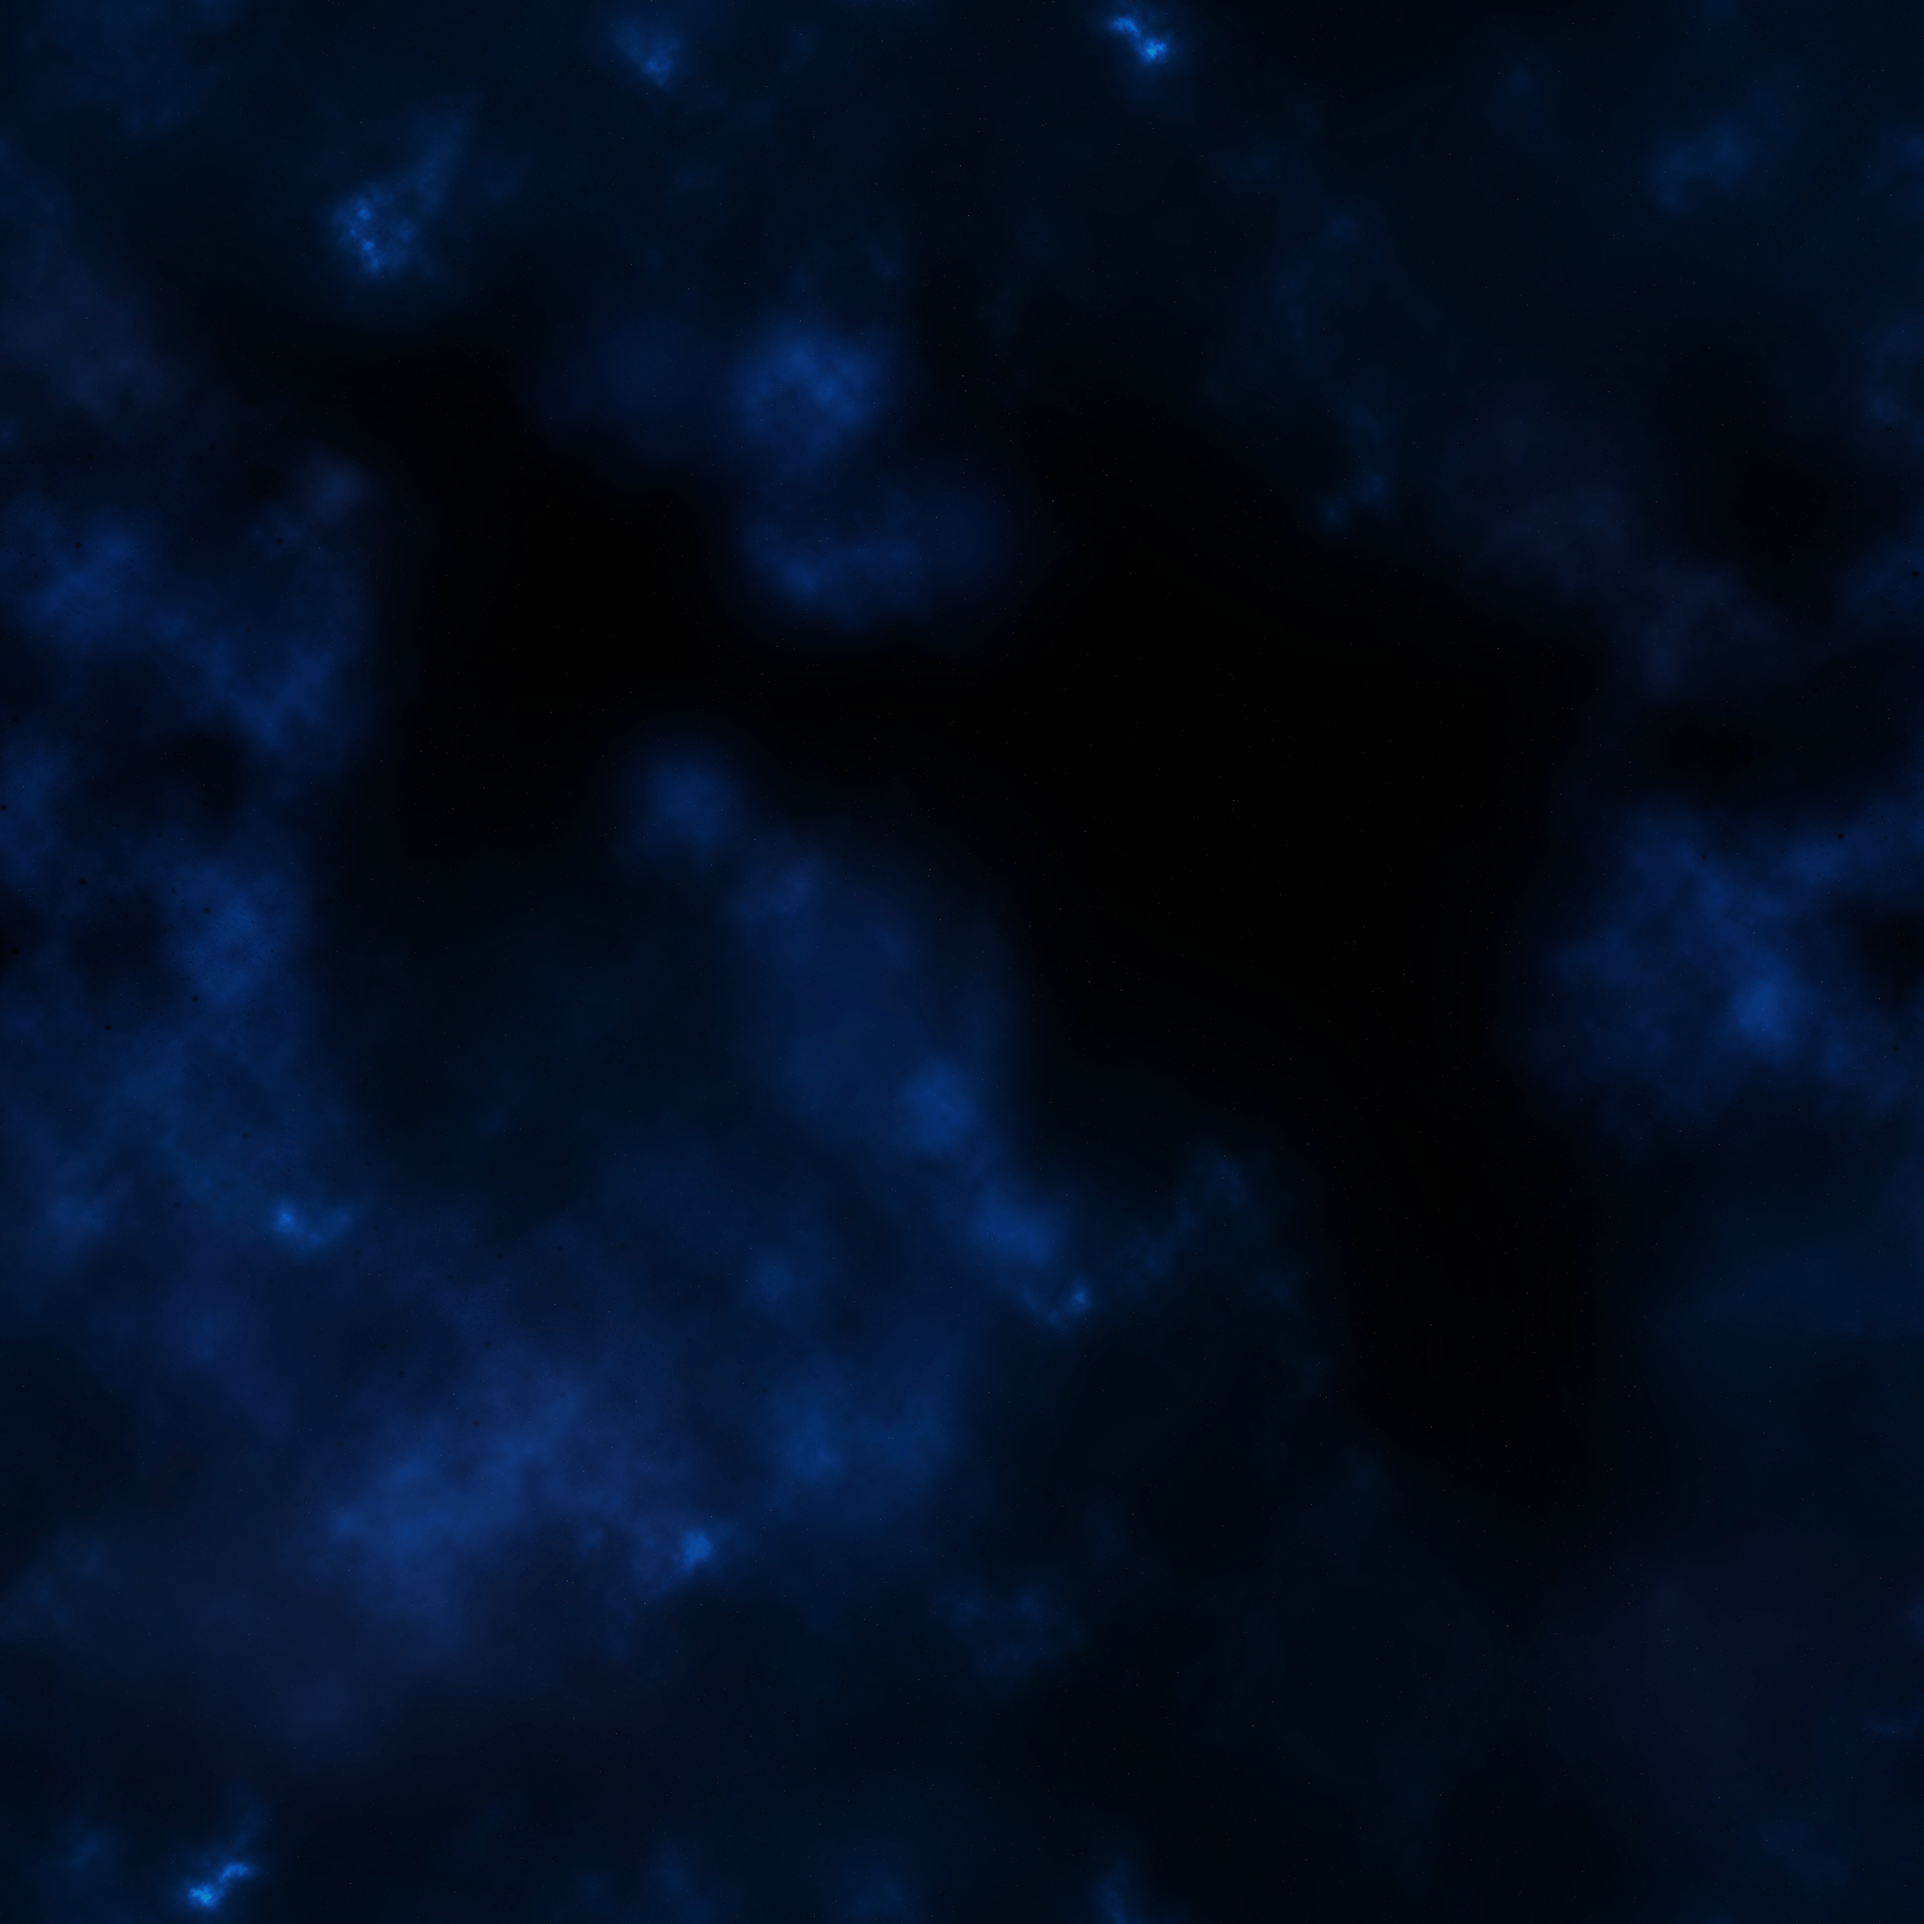
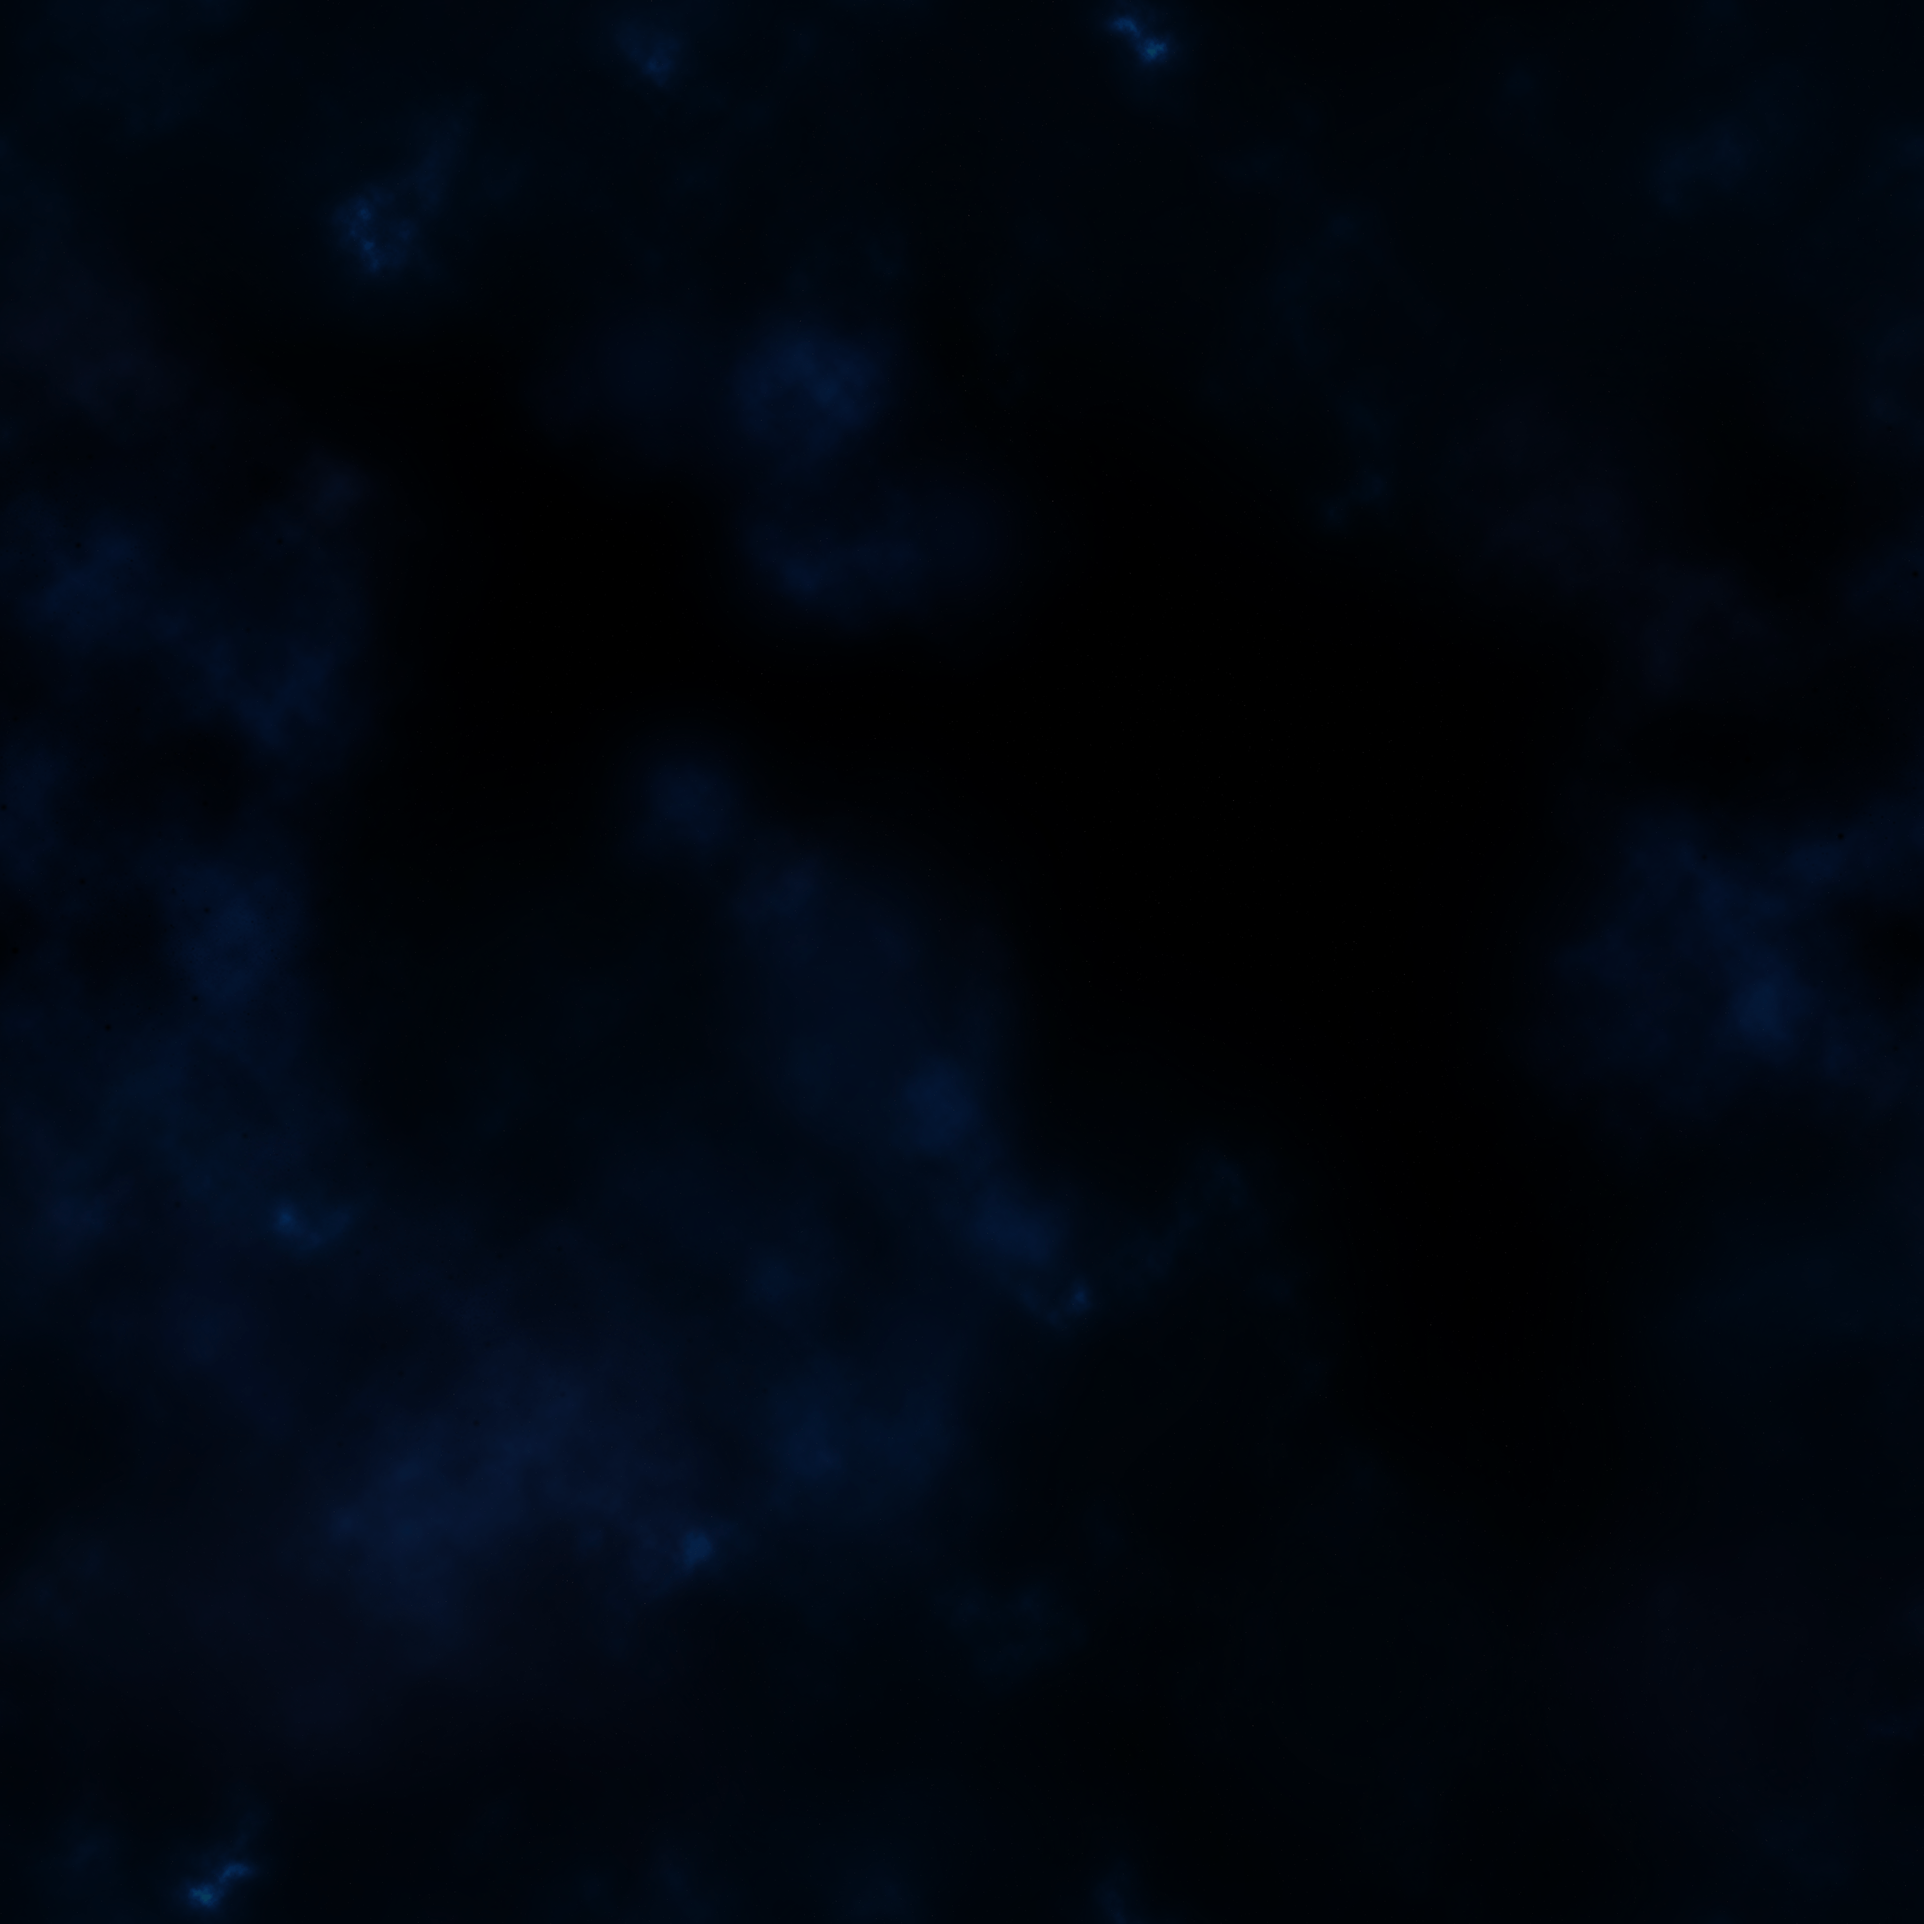
Improved layout and visuals

diff --git a/src/index.css b/src/index.css
@@ -9,7 +9,7 @@
   --accent-border: rgba(170, 59, 255, 0.5);
   --social-bg: rgba(244, 243, 236, 0.5);
   --shadow:
-    rgba(0, 0, 0, 0.1) 0 10px 15px -3px, rgba(0, 0, 0, 0.05) 0 4px 6px -2px;
+    #00fefe60 0 10px 10px 10px, #00fefe39 0 5px 5px 5px;
 
   --sans: system-ui, 'Segoe UI', Roboto, sans-serif;
   --heading: system-ui, 'Segoe UI', Roboto, sans-serif;
@@ -33,7 +33,7 @@
   :root {
     --text: #bcbcbc;
     --text-h: #f3f4f6;
-    --bg: #16171d;
+    --bg: #16171d00;
     --border: #ffffff;
     --code-bg: #1f2028;
     --accent: #c084fc;
@@ -41,7 +41,7 @@
     --accent-border: rgba(192, 132, 252, 0.5);
     --social-bg: rgba(47, 48, 58, 0.5);
     --shadow:
-      rgba(0, 0, 0, 0.4) 0 10px 15px -3px, rgba(0, 0, 0, 0.25) 0 4px 6px -2px;
+      #00fefe1a 0 0px 0px 5px, #00fefe2c 0 0px 0px 7px;
   }
 
   #social .button-icon {
@@ -50,16 +50,45 @@
 }
 
 #root {
-  min-width: 200svh;
-  max-width: 200svh;
+  max-width: 100%;
+  min-height: 100svh;
   margin: 0 auto;
   text-align: center;
-  border: 1px solid var(--border);
-  min-height: 100svh;
-  max-height: 100svh;
   display: flex;
-  flex-direction: row;
+  align-items: center;
+  justify-content: center;
   box-sizing: border-box;
+  --bg-tile-size: 1760px;
+  background-image: url('./assets/ui/bgImage.png');
+  background-repeat: repeat;
+  background-size: var(--bg-tile-size) var(--bg-tile-size);
+  animation: bg-scroll-diagonal 180s linear infinite;
+}
+
+/* background-position percentages are NOT "shift by one tile" -- per spec
+   they're (container size - image size) * percentage, which only equals a
+   clean one-tile shift when the container happens to be exactly 2x the
+   tile's size. That mismatch is what caused the visible seam.
+   The reliable fix: force the tile to render at a size we control
+   explicitly (--bg-tile-size, via background-size above) and animate by
+   exactly that many pixels. Since the animated distance and the rendered
+   tile size are now driven by the same variable, the loop point is
+   guaranteed to line up exactly, regardless of bgImage.png's actual
+   resolution. Negative on both axes moves the pattern up and to the left
+   (toward the top left). */
+@keyframes bg-scroll-diagonal {
+  from {
+    background-position: 0 0;
+  }
+  to {
+    background-position: calc(var(--bg-tile-size) * -1) calc(var(--bg-tile-size) * -1);
+  }
+}
+
+@media (prefers-reduced-motion: reduce) {
+  #root {
+    animation: none;
+  }
 }
 
 body {

diff --git a/src/App.tsx b/src/App.tsx
@@ -1,11 +1,16 @@
 import CardBrowser from './components/CardBrowser/CardBrowser';
 import cardData from './data/carddata.json';
 import type { CardData } from './types/Card';
+import './App.css';
 
 function App() {
   const cards = cardData as CardData[];
 
-  return <CardBrowser cards={cards} />;
+  return (
+    <div className="PageContent">
+      <CardBrowser cards={cards} />
+    </div>
+  );
 }
 
 export default App;

diff --git a/src/components/CardBrowser/CardBrowser.css b/src/components/CardBrowser/CardBrowser.css
@@ -1,10 +1,11 @@
 .CardBrowser {
   width: 342px;
+  height: 635px;
   flex-direction: column;
   align-items: flex-start;
-  padding: 8px;
+  padding: 4px;
   border: 2px solid #00fefe;
-  background: #333333;
+  background: #33333340;
   border-radius: 8px;
 }
 
@@ -60,7 +61,7 @@
 }
 
 .CardBrowser-cell--placeholder {
-  visibility: hidden;
+  background: #33333340;
 }
 
 .CardBrowser-cardWrapper {

diff --git a/src/App.css b/src/App.css
@@ -1,0 +1,10 @@
+.PageContent {
+    /* Adjust these to whatever size you actually want the page's content
+       area to be — completely independent of #root, which just centers this
+       box within the full-page animated background. */
+    width: 1400px;
+    height: 650px;
+    box-sizing: border-box;
+    overflow: auto;
+    background: var(--bg);
+  }
